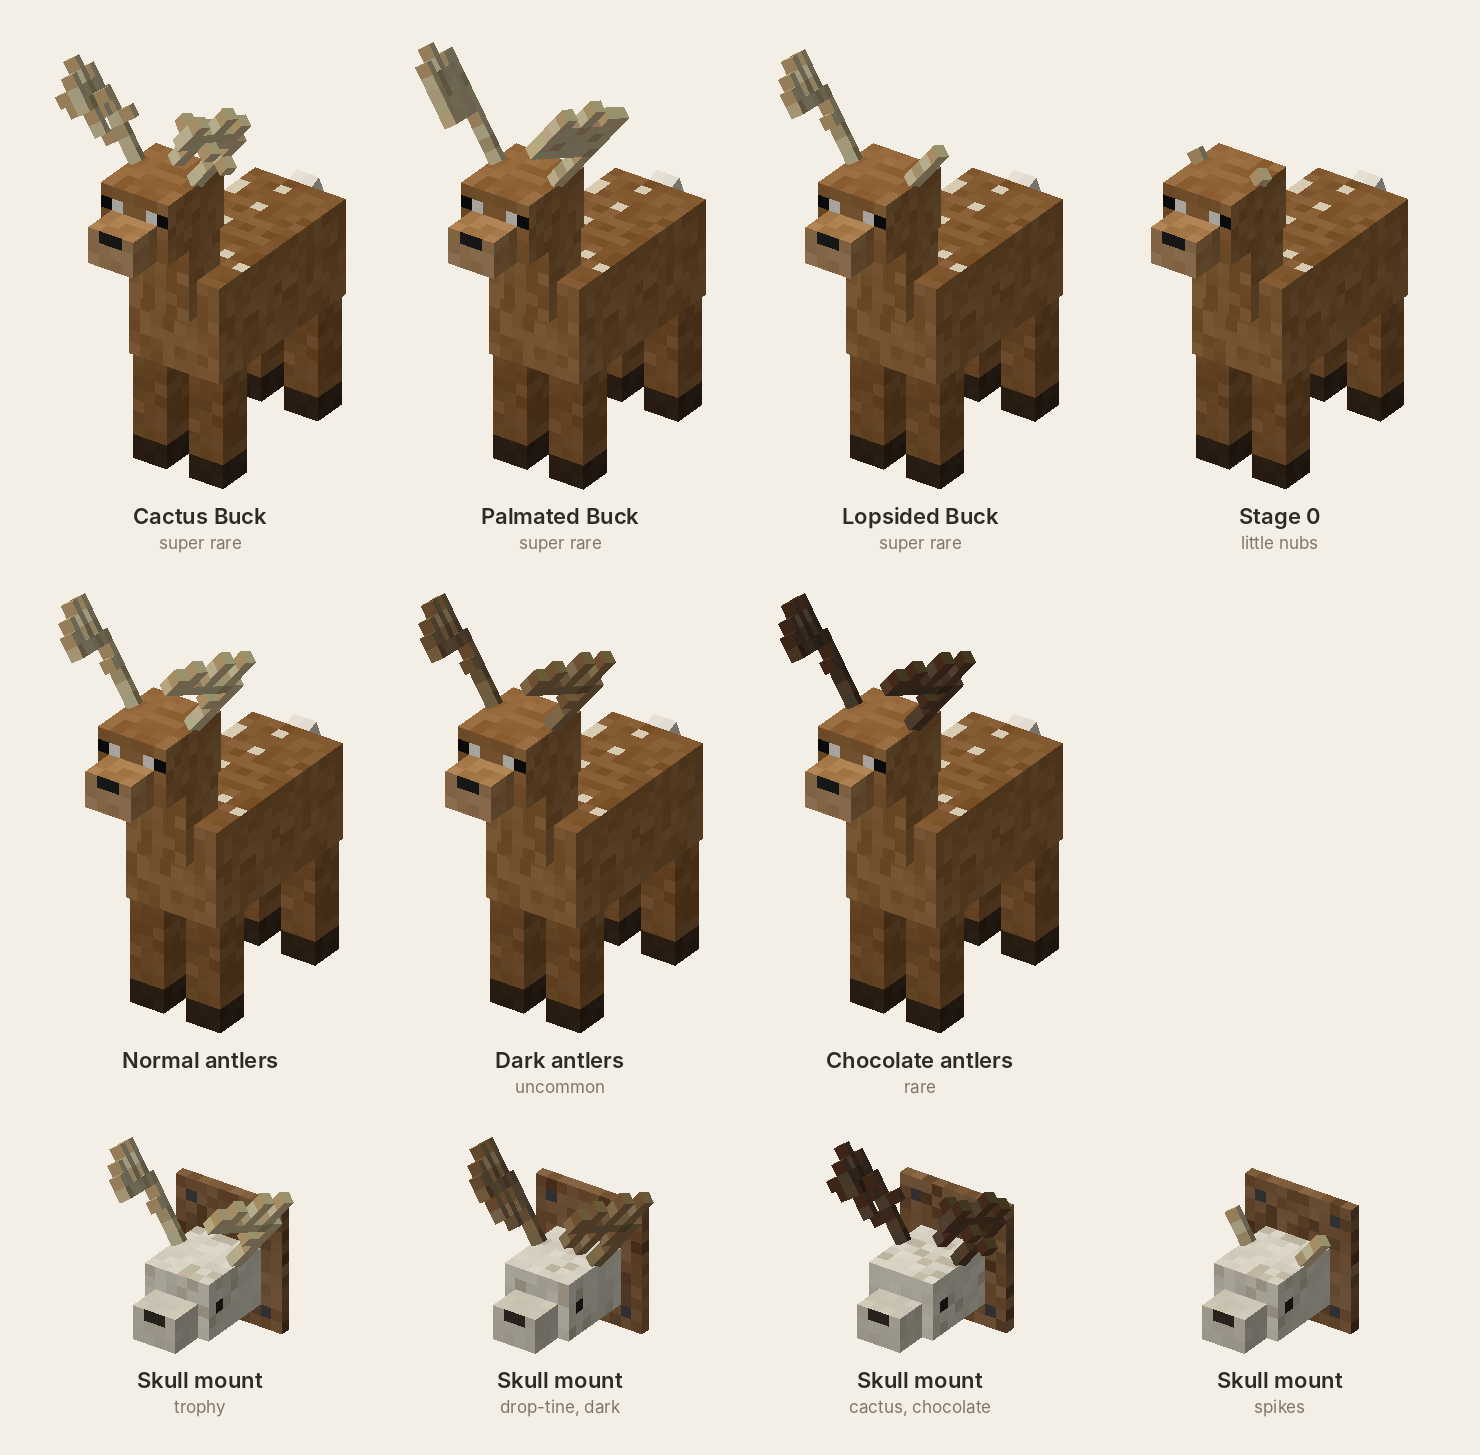
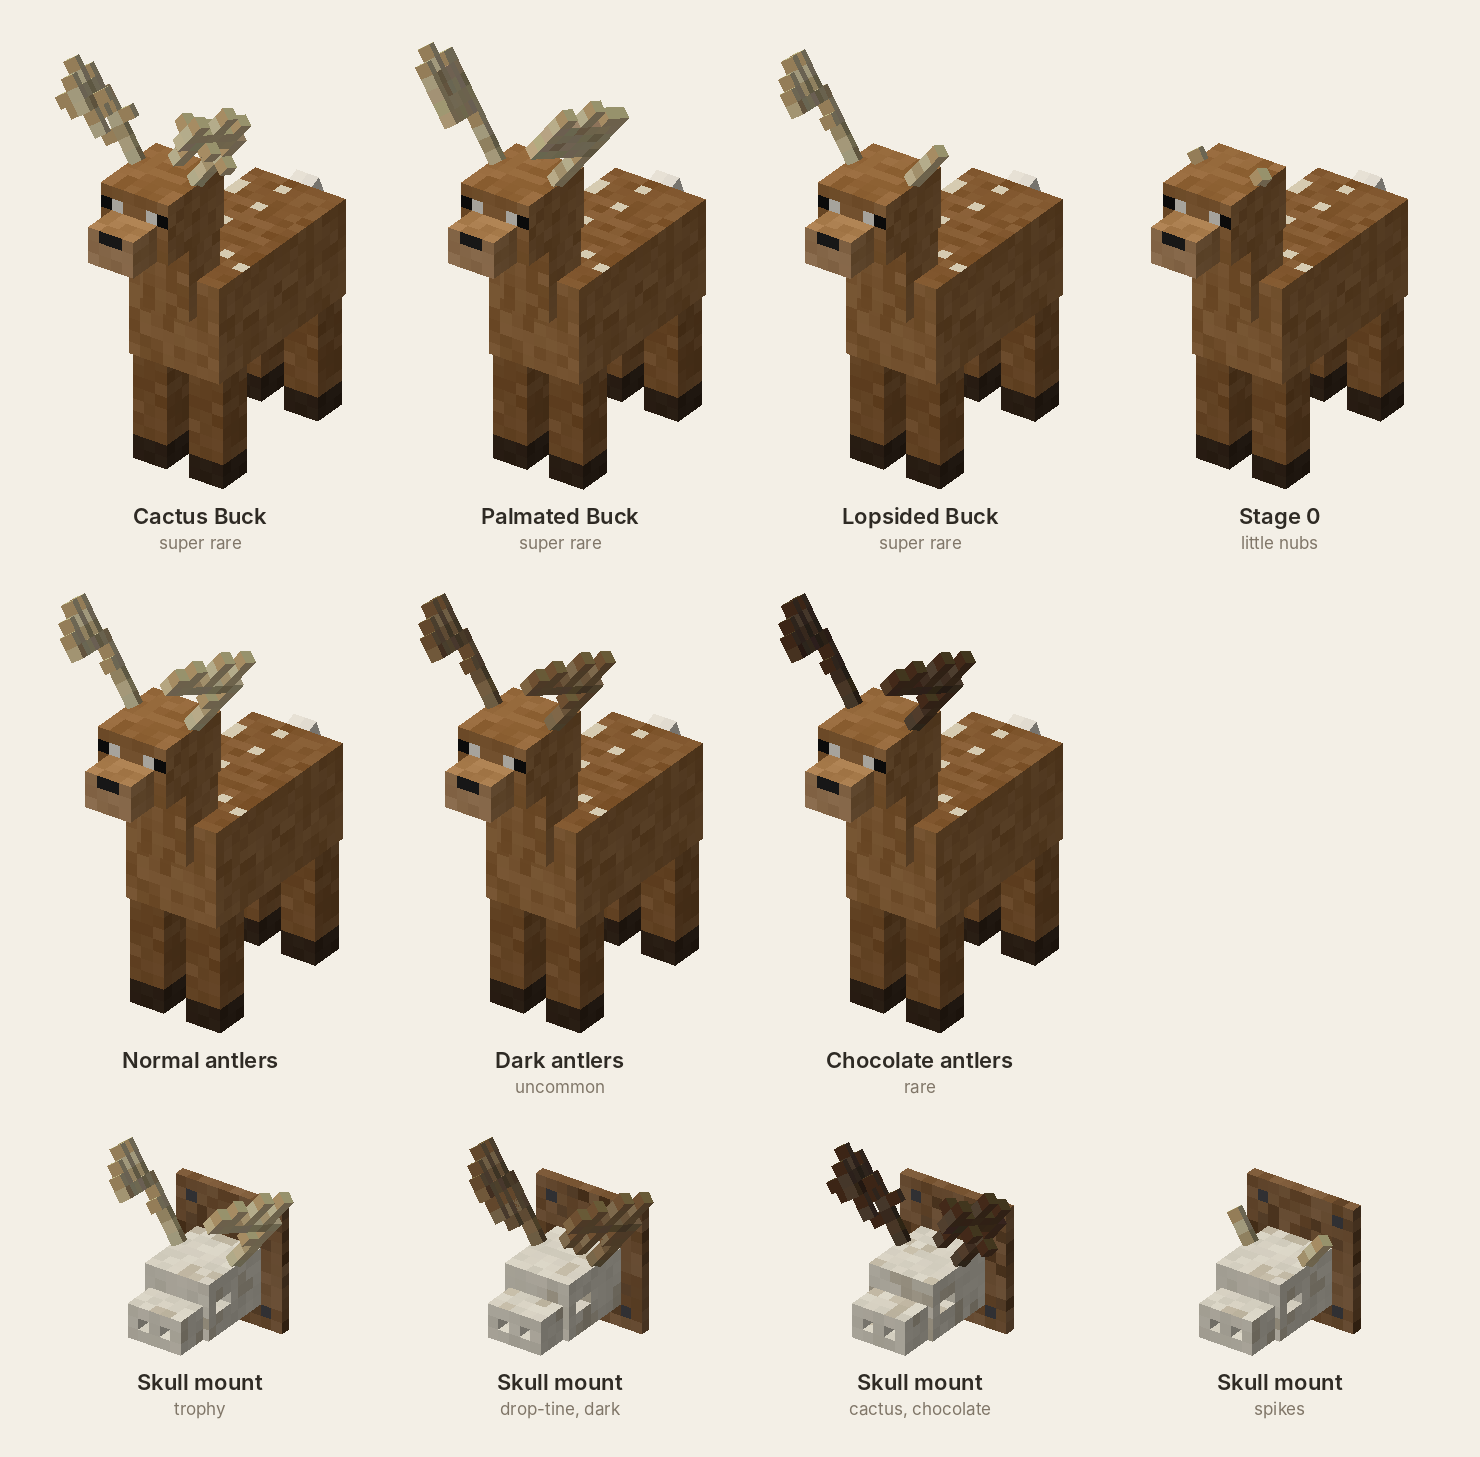
Rarer big bucks, hollow skull mount, roadmap
- Wild deer spawn mostly young; about 1 in 25 is a trophy. Rare racks
  are about 6% of trophies, keeping them super rare overall
- Skull mount rebuilt hollow: eye sockets go through, nostril holes with
  a septum run into the snout
- ROADMAP.md with queued ideas (seasons, elk, moose, grizzly, eagles,
  whales, sharks, butterflies, salt caves, new ores...)

Claude-Session: https://claude.ai/code/session_01M5QtgiQGYPBXfdb72XCowG

diff --git a/tools/critters.py b/tools/critters.py
@@ -498,17 +498,28 @@ def mount_assets():
     """Bleached deer skull nailed to a rough plank. Skull coordinates match the deer head, so the same
     antler groups (deer_antlers.json, head-relative) sit on it exactly."""
     hp = [0, 21, -1]          # where the skull's 'head pivot' sits in the mount model
+    # The skull is built hollow: eye sockets go clean through the sides, and two nostril holes
+    # (with a bony septum between) run back into the snout.
     parts = [
         part("plank", hp, [box("plank", (-5, -14, 1), (10, 11, 1), "plank")], "mount_plank"),
-        part("skull", hp, [box("cranium", (-3, -10, -6), (6, 5, 7), "skull"),
-                           box("snout", (-2, -8, -9), (4, 3, 3), "snout")], "mount_skull"),
+        part("skull", hp, [
+            box("cranium_top", (-3, -10, -6), (6, 2, 7), "skull"),
+            box("cranium_bottom", (-3, -7, -6), (6, 2, 7), "skull"),
+            box("cranium_back", (-3, -8, -3), (6, 1, 4), "skull"),      # behind the eye sockets
+            box("brow", (-3, -8, -6), (6, 1, 1), "skull"),              # in front of the eye sockets
+            box("snout_top", (-2.5, -8, -9), (5, 1, 3), "skull"),
+            box("snout_wall_r", (-2.5, -7, -9), (1, 1, 3), "skull"),
+            box("septum", (-0.5, -7, -9), (1, 1, 3), "skull"),
+            box("snout_wall_l", (1.5, -7, -9), (1, 1, 3), "skull"),
+            box("snout_bottom", (-2.5, -6, -9), (5, 1, 3), "skull"),
+            box("nasal_cavity", (-1.5, -7, -6.25), (3, 1, 0.25), "cavity"),   # dark back wall of the nostrils
+        ], "mount_skull"),
     ]
     size = pack(parts)
     size = (64, 64)                                   # antler patch lives at y 42-63, like deer.png
     styles = {"plank": {"c": "#8a6440", "noise": 14, "speckle": {"c": "#6a4a2c", "p": 0.18}},
-              "skull": {"c": "#e8e2d2", "noise": 8, "speckle": {"c": "#d2c8b2", "p": 0.15}, "side_eyes": "#2a2420", "eye_row": 2,
-                        "front": "#e8e2d2"},
-              "snout": {"c": "#ddd6c4", "noise": 6, "nose": "#3a322c"}}
+              "skull": {"c": "#e8e2d2", "noise": 8, "speckle": {"c": "#d2c8b2", "p": 0.15}},
+              "cavity": {"c": "#3a322c", "noise": 4}}
     emit_model("deer_mount", parts, size)
     for colour in ANTLER_COLOURS:
         img = Image.new("RGBA", size, (0, 0, 0, 0))

diff --git a/src/main/java/com/ryancraft/entity/Deer.java b/src/main/java/com/ryancraft/entity/Deer.java
@@ -121,7 +121,7 @@ public class Deer extends RyanAnimal {
     /** Super-rare racks, rolled when a buck reaches (or spawns at) stage 4. */
     private int rollRareRack() {
         int r = this.random.nextInt(1000);
-        return r < 10 ? 1 : r < 18 ? 2 : r < 33 ? 3 : 0;     // cactus 1%, palmated 0.8%, lopsided 1.5%
+        return r < 20 ? 1 : r < 36 ? 2 : r < 60 ? 3 : 0;     // cactus 2%, palmated 1.6%, lopsided 2.4% of trophies
     }
 
     public void setAntlers(int stage, boolean dropTine) {
@@ -159,9 +159,9 @@ public class Deer extends RyanAnimal {
                                         @Nullable SpawnGroupData data) {
         var result = super.finalizeSpawn(level, difficulty, reason, data);
         if (!this.isBaby() && reason != EntitySpawnReason.BREEDING) {
-            // Wild deer come in all sizes: mostly younger, about one in ten a trophy
+            // Wild deer are mostly young; big bucks take some hunting (about 1 in 25 is a trophy)
             int roll = this.random.nextInt(100);
-            int stage = roll < 26 ? 0 : roll < 50 ? 1 : roll < 72 ? 2 : roll < 90 ? 3 : 4;
+            int stage = roll < 38 ? 0 : roll < 66 ? 1 : roll < 86 ? 2 : roll < 96 ? 3 : 4;
             setAntlers(stage, stage >= 3 && this.random.nextInt(33) == 0);
             if (stage == MAX_ANTLERS) setRack(rollRareRack());
             nextStage = stageLength();

diff --git a/README.md b/README.md
@@ -53,16 +53,16 @@ All of it plays on the *Ambient/Environment* volume slider and has subtitles. `a
 ### Deer: antlers and hunting
 **Antlers grow with age.** A deer ages only while its chunk is loaded, and goes up one stage every 2-3 in-game weeks (each deer on its own clock):
 stage 0 (does and young) -> 1 spikes -> 2 forks -> 3 six-to-eight point -> 4 ten-point **Trophy Buck**. Fawns start once they're grown, and bigger racks come on bigger bodies.
-Wild deer spawn at every stage (mostly younger, about one in ten a trophy).
+Wild deer spawn at every stage, but big bucks take some hunting: about 38% are does or young, 28% spikes, 20% forks, 10% six-to-eight point, and only about 4% (one in 25) trophies. Herds gain more as their deer age.
 The rare **Drop-Tine Buck** carries non-typical tines hanging off its beams: about 3% of big bucks spawn that way, and a few turn non-typical as they grow into it.
 
 ![Antler stages](docs/antlers.png)
 
 **Collect them.** Every deer also rolls an antler colour (normal, dark about 1 in 5, chocolate about 1 in 17), and when a buck reaches stage 4 it has a small chance of a super-rare rack:
-**Cactus Buck** (knobby points everywhere, ~1%), **Palmated Buck** (flat moose-like paddles, ~0.8%), **Lopsided Buck** (a full rack on one side, a spike on the other, ~1.5%).
+**Cactus Buck** (knobby points everywhere), **Palmated Buck** (flat moose-like paddles) and **Lopsided Buck** (a full rack on one side, a spike on the other); together about 6% of trophies.
 Stage 0 deer just have two little antler-coloured nubs.
 
-**Skull mounts.** Kill an antlered deer and it drops a primitive skull mount (bleached skull nailed to a plank) with that exact rack and colour,
+**Skull mounts.** Kill an antlered deer and it drops a primitive skull mount (a hollow bleached skull, with real eye-socket and nostril holes, nailed to a plank) with that exact rack and colour,
 named for what it is ("Drop-Tine Buck Skull Mount", "Cactus Buck Skull Mount"...). Use it on a wall to hang it; punch it to take it down.
 
 ![Rare racks, antler colours and skull mounts](docs/racks_and_mounts.png)
@@ -107,6 +107,9 @@ All on by default; each can be switched off in `config/ryancraft.json`:
 - `disableChatReporting`: never creates a chat-signing key, so your messages can't be reported. Vanilla servers with `enforce-secure-profile=true` will refuse you while this is on.
 - `hideReportButton`, `disableProfanityFilter`, `classicDefaultSkins` (Steve or Alex only).
 - No "Java Edition" badge, and Alpha/Beta-style splash text.
+
+## Roadmap
+See [ROADMAP.md](ROADMAP.md) for what's queued: seasons, elk, moose, grizzlies, eagles, whales, sharks, new ores and more.
 
 ## Install
 1. [Fabric Loader](https://fabricmc.net/use/) 0.20.1+ for 1.21.11.

diff --git a/ROADMAP.md b/ROADMAP.md
@@ -1,0 +1,40 @@
+# RyanCraft roadmap
+
+Ideas queued for later, roughly grouped. Nothing here is built yet.
+
+## Next up
+- **Seasons**: the next big one. Antler shedding in late winter would tie in here.
+
+## Wildlife
+**Deer family**
+- **Elk** and **moose**, each in their own biomes (moose in cold wetlands and spruce forests, elk in mountain meadows and open woods).
+- **Black-tailed deer** (western coastal forests).
+- **Pronghorn** (open grassland and shrubland). Not technically a deer, but a great hunting animal.
+
+**Predators and big game**
+- **Grizzly bear**
+- **Bobcat**
+- **Alligator** (swamps)
+
+**Birds**
+- **Bald eagle** and **golden eagle**
+- **Hawks** (the ambience already has hawk calls to hook into)
+- **Vultures** circling high over open country
+
+**Ocean**
+- **Whales**, each with its own behaviour: **orcas** (hunt in pods), **blue whales** (huge, slow, surface to breathe and spout).
+- **Sharks**
+- **Manta rays**
+- **Schools of ocean fish** that move together.
+
+**Small life**
+- **Butterflies**
+
+## Ores and the world underground (very Tekkit)
+- **Salt**, found in **salt caves**
+- **Aluminum, tin, zinc, lead, silver, uranium**
+- **Ruby and sapphire**
+
+## Shelved
+- **NPC encounters beyond villagers**, such as silent bandit camps to fight. Parked because most of what makes NPCs interesting (talking, travelling the roads) needs a pre-built, populated world.
+- **Native American tribes** as encounters. Parked; if revisited it would need to be done with real care and respect rather than as enemies or set dressing.
